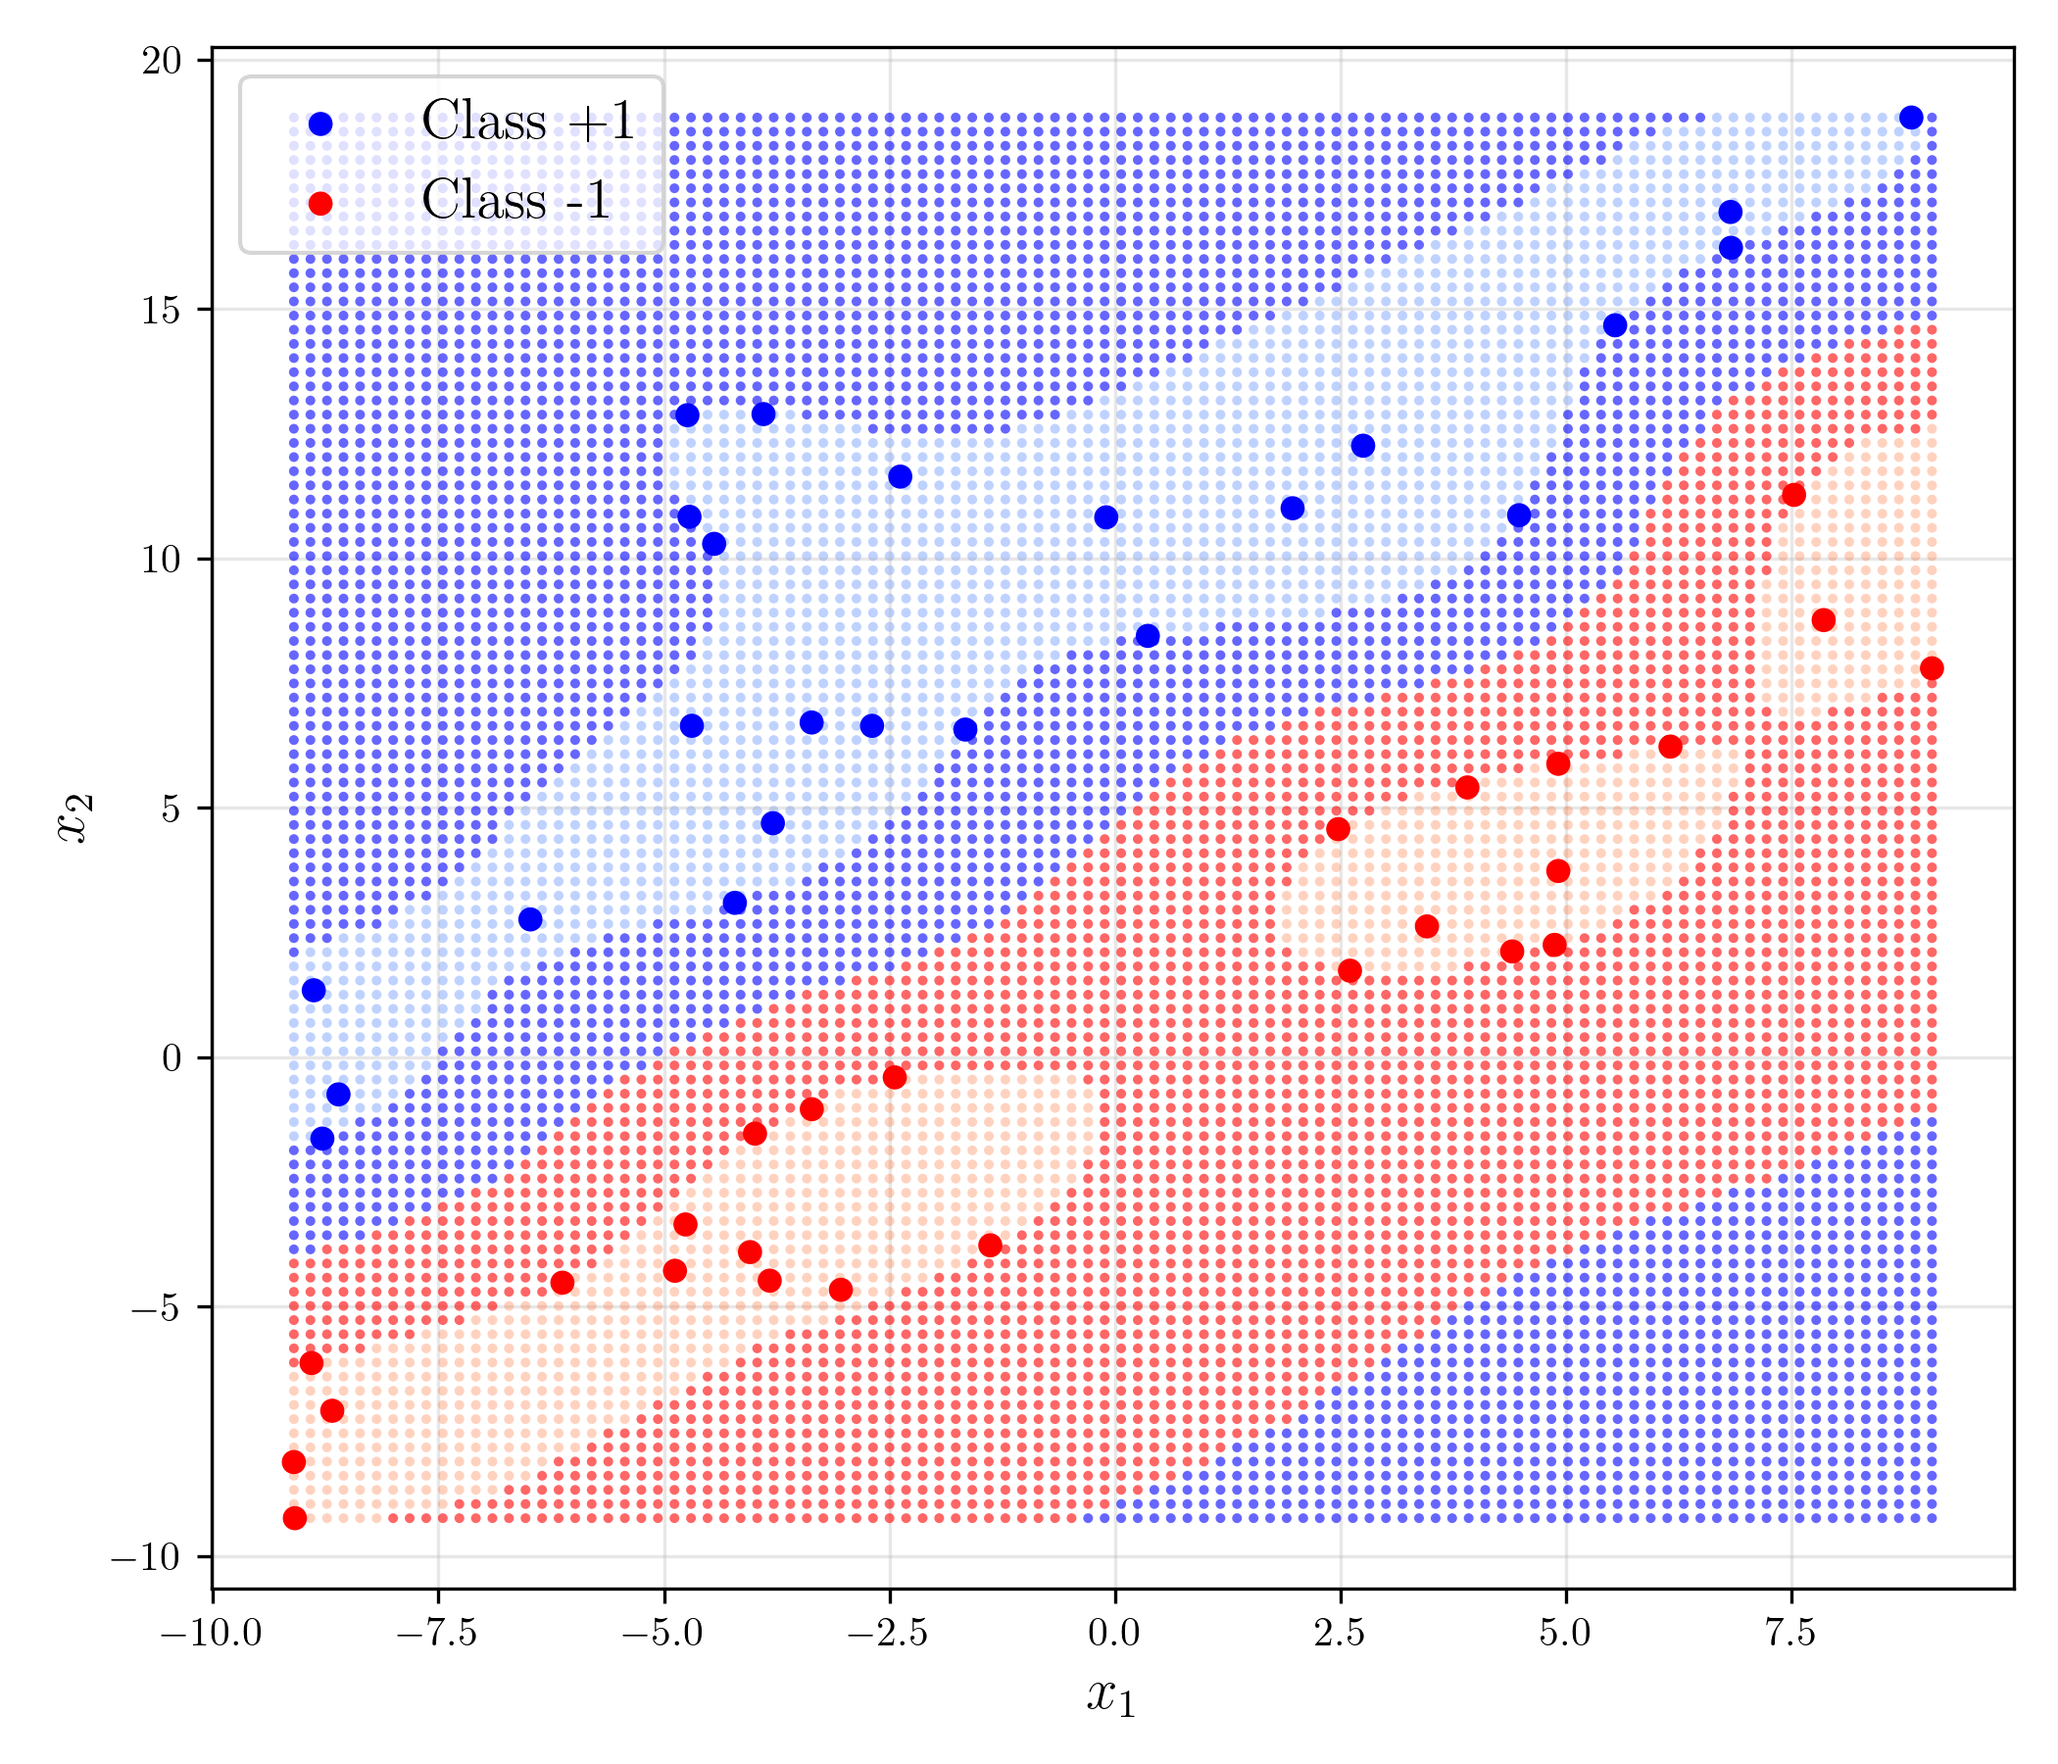
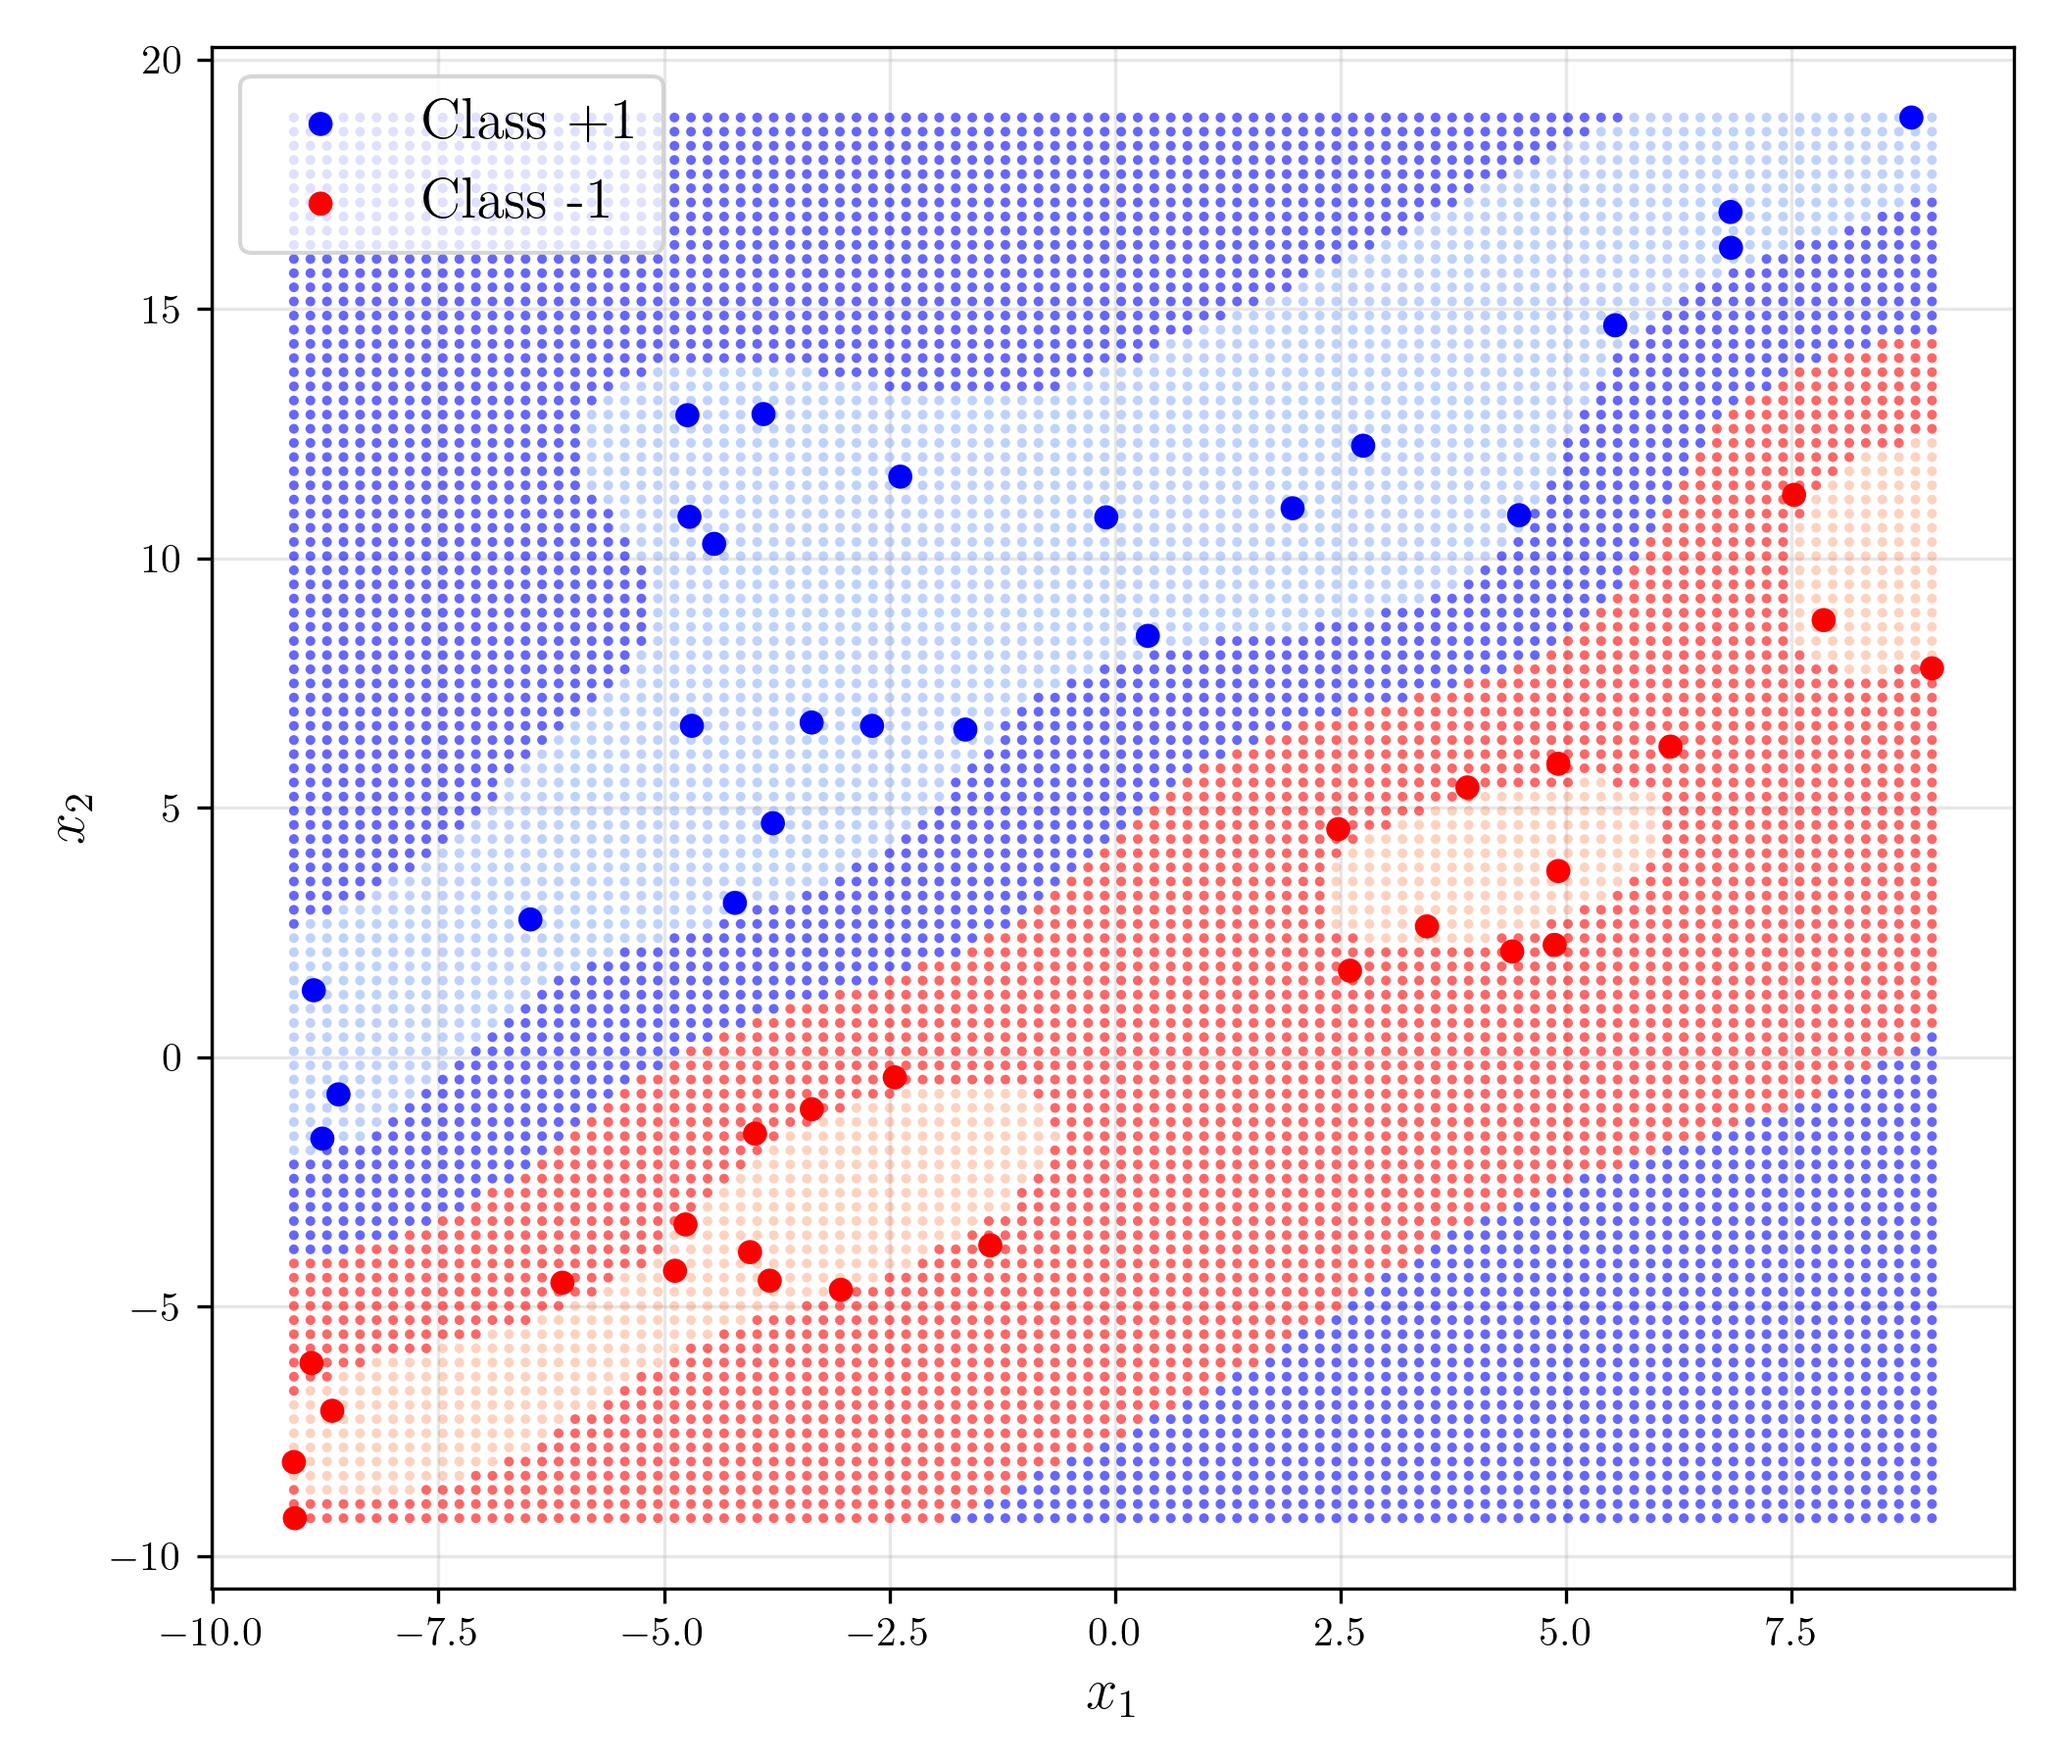
cleaned up code

diff --git a/Project_2/p2q3.py b/Project_2/p2q3.py
@@ -25,24 +25,24 @@ sigma = 3.0  # bandwidth of Gaussian kernel
 
 # Dual problem with Gaussian kernel
 # Solve the dual problem (4) with the Gaussian kernel 
+# Denote the dual decision variables by lambda
 
-# Gaussian kernel matrix K_ij = exp(-||xi - xj||^2 / (2σ^2))
+# Gaussian kernel
 K = np.zeros((m, m))
 for i in range(m):
     for j in range(m):
         diff = x[i] - x[j]
         K[i, j] = np.exp(-np.dot(diff, diff) / (2 * sigma**2))
 
-# CVXPY variable: dual variables λ
+# CVXPY variable
 lam = cp.Variable(m)
 
-# Dual objective:
-# sum_i (λi - (m/2) λi^2) - (1/(2ρ)) sum_{i,j} λi λj yi yj K_ij
-quad_term = cp.sum(cp.multiply(y, lam))  # ∑ λi yi but not enough
+# Dual objective
+quad_term = cp.sum(cp.multiply(y, lam)) 
 obj = cp.sum(lam - (m/2) * cp.square(lam)) \
       - (1/(2*rho)) * cp.quad_form(cp.multiply(lam, y), cp.psd_wrap(K))
 
-# Constraints: ∑ λi yi = 0, 0 ≤ λi ≤ 1/m
+# Constraints
 constraints = [
     lam @ y == 0,
     lam >= 0,
@@ -52,34 +52,34 @@ constraints = [
 dual_problem = cp.Problem(cp.Maximize(obj), constraints)
 dual_problem.solve(solver=cp.SCS, verbose=False)
 
-lambda_opt = lam.value
-# ----------------------------------------------------
+lambda_opt = lam.value # this is an array
 
 # Compute optimal b (denote by b_opt) using the optimal dual solution
+sv_indices = np.where((lambda_opt > 0) & (lambda_opt < 1/m))[0]
+k = sv_indices[0] # pick the first k that satisfies the condition
 
-# Choose a k with λ_k in (0, 1/m) → support vector
-epsilon = 1e-6
-sv_indices = np.where((lambda_opt > epsilon) & (lambda_opt < 1/m - epsilon))[0]
-k = sv_indices[0]  # pick first valid SV
-
-# Compute term: ∑ λ_i y_i K(x_i, x_k)
 sum_term = 0
 for i in range(m):
     sum_term += lambda_opt[i] * y[i] * K[i, k]
 
-# b* = y_k (m λ_k – 1) + (1/ρ) ∑ λ_i y_i K(x_i, x_k)
 b_opt = y[k] * (m * lambda_opt[k] - 1) + (1/rho) * sum_term
 
-# ------------------- Discretization & labels -------------------
-
-# Build a 100x100 grid in 2D (since d=2)
+# ------------------- Discretization & labels (100 points per feature) -------------------
+# Discretize each feature range to 100 discretization points to get 100^d
+# total number of discretization points in the feature space
+# Construct a feature matrix (denote by feature) of discretization points
+# Specifically, feature will be a matrix in R^((100^d) x d), where each row
+# represents a distinct feature vector
+# Compute the label of each discrete point by using optimal w and b
+# Construct a label vector (denoted by label) containing the respective labels
+# Specifically, label will be a vector in R^((100^d) x 1)
 grid_points = 100
 x1_vals = np.linspace(np.min(x[:,0]), np.max(x[:,0]), grid_points)
 x2_vals = np.linspace(np.min(x[:,1]), np.max(x[:,1]), grid_points)
 
 feature = np.array([[a, b] for a in x1_vals for b in x2_vals])
 
-# Compute decision value f(z) = (1/ρ) ∑ λ_i y_i K(x_i, z) - b
+# Compute decision value
 label = np.zeros(feature.shape[0])
 
 for idx, z in enumerate(feature):
@@ -93,14 +93,13 @@ for idx, z in enumerate(feature):
 label = label.reshape(-1)
 
 # ------------------- Visualization -------------------
-# feel free to comment out and construct your own plots.
 m_light_red  = label >= 1
 m_dark_red   = (label >= 0) & (label < 1)
 m_dark_blue  = (label < 0)  & (label > -1)
 m_light_blue = label <= -1
 plt.figure(figsize=(7, 6))
 ax = plt.gca()
-ax.set_facecolor("white")  # improve contrast
+ax.set_facecolor("white")
  
 # plot light regions first (more transparent)
 plt.scatter(feature[m_light_blue, 0], feature[m_light_blue, 1],
